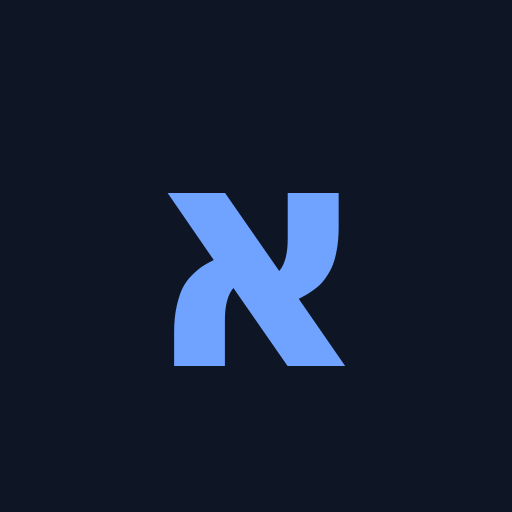
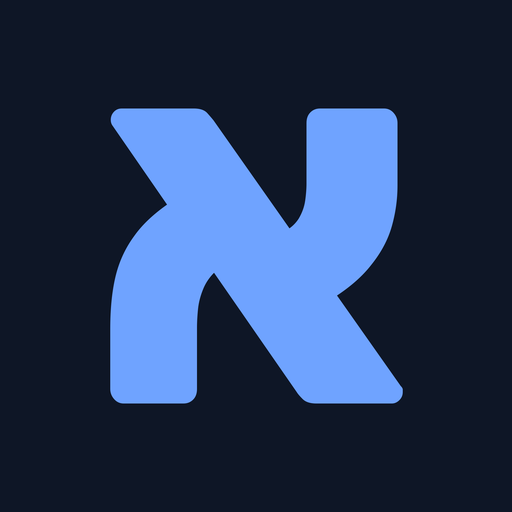
Icône : lettre aleph plus grande
Claude-Session: https://claude.ai/code/session_01QyoZqcRSaMDyK8HWYbT2fB

Changed region(s): [[0.1875, 0.1875, 0.8125, 0.8125]]

diff --git a/index.html b/index.html
@@ -6,8 +6,8 @@
 <meta name="theme-color" content="#0E1626">
 <meta name="robots" content="noindex,nofollow">
 <link rel="manifest" href="manifest.webmanifest">
-<link rel="icon" href="icons/icon-192.png">
-<link rel="apple-touch-icon" href="icons/icon-192.png">
+<link rel="icon" href="icons/icon-192.png?v=2">
+<link rel="apple-touch-icon" href="icons/icon-192.png?v=2">
 <title>Aleph</title>
 <link rel="preconnect" href="https://fonts.googleapis.com">
 <link rel="preconnect" href="https://fonts.gstatic.com" crossorigin>
